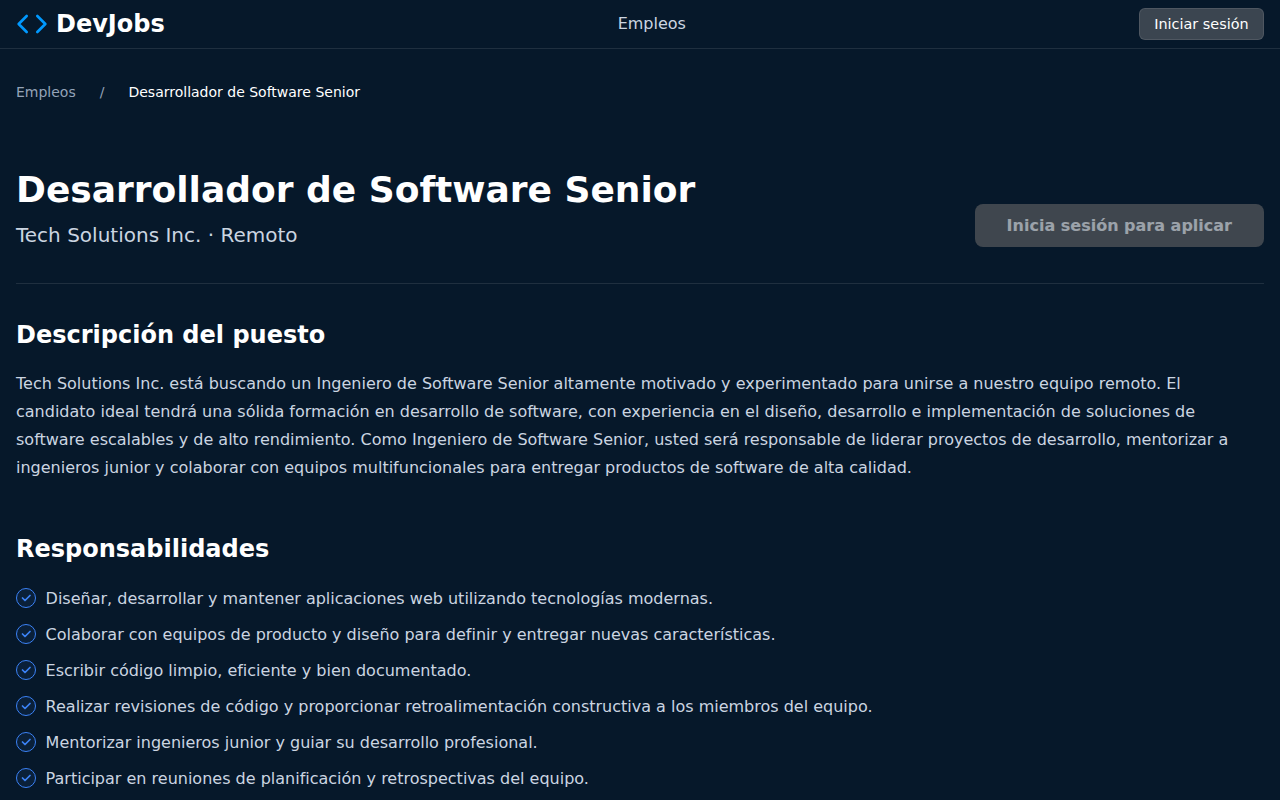
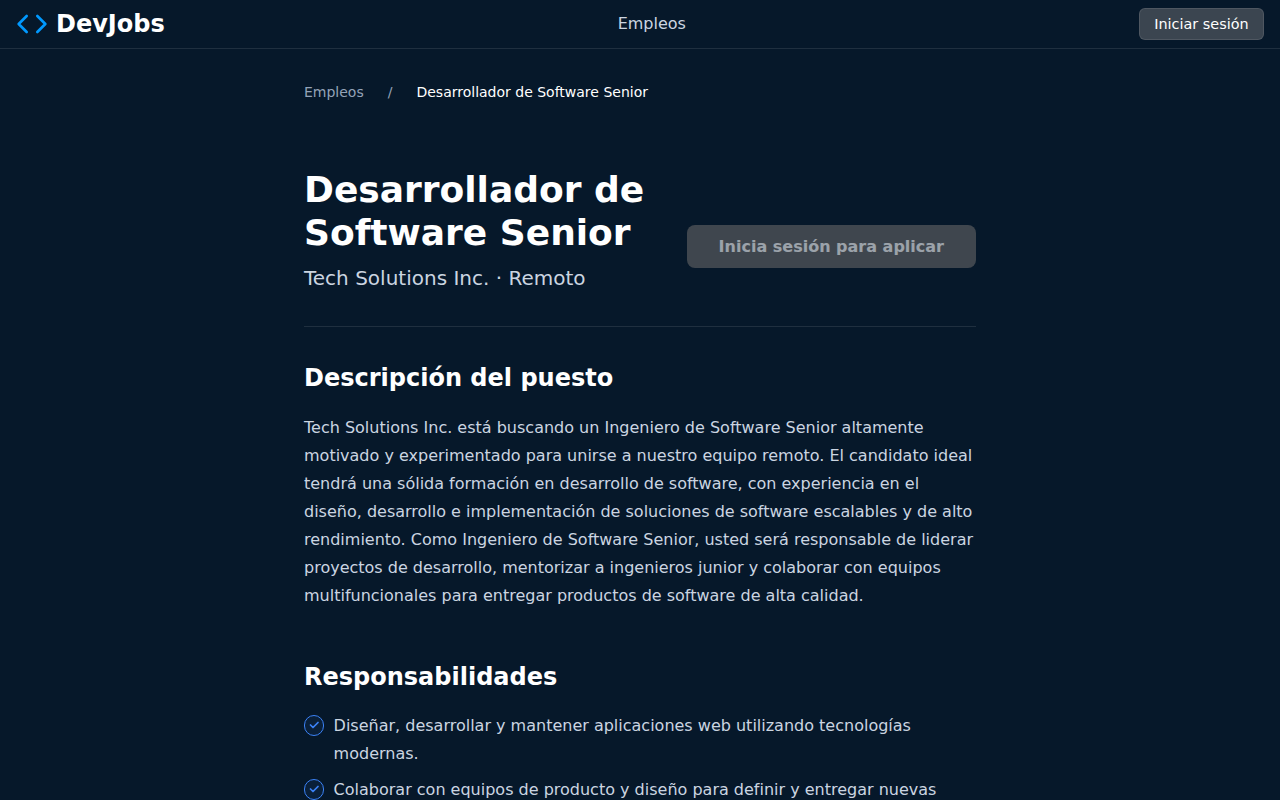
fix(web): limit job detail width and widen its margins (#13)

diff --git a/apps/web/src/pages/Detail.module.css b/apps/web/src/pages/Detail.module.css
@@ -1,13 +1,20 @@
+/*
+ * Columna centrada de unos 42rem de texto (≈ 80 caracteres por línea), con
+ * márgenes que crecen con la pantalla. El max-width incluye el padding.
+ */
 .page {
   width: 100%;
-  max-width: 1280px;
+  max-width: calc(42rem + 2 * 2rem);
   margin: 0 auto;
-  padding: 0 1rem;
+  padding-inline: 1.25rem;
+
+  @media (min-width: 640px) {
+    padding-inline: 2rem;
+  }
 }
 
 .container {
   padding-block: 2rem;
-  max-width: 64rem;
 }
 
 .loading,

diff --git a/README.md b/README.md
@@ -1,16 +1,18 @@
 # DevJobs
 
+[![CI](https://github.com/CheT018/devjobs/actions/workflows/ci.yml/badge.svg)](https://github.com/CheT018/devjobs/actions/workflows/ci.yml)
+
 Portal de empleo para desarrolladores. Permite buscar ofertas por texto, filtrarlas por tecnología, ubicación y nivel de experiencia, y consultar el detalle de cada una.
 
 Es una aplicación full stack en un monorepo: una web en React y una API REST propia con base de datos SQLite.
 
-**[Ver la demo](https://devjobs-lilac.vercel.app)** · [![CI](https://github.com/CheT018/devjobs/actions/workflows/ci.yml/badge.svg)](https://github.com/CheT018/devjobs/actions/workflows/ci.yml)
+**Demo:** [devjobs-lilac.vercel.app](https://devjobs-lilac.vercel.app)
 
 ![Portada de DevJobs](.github/screenshots/home.png)
 
 <p>
-  <img src=".github/screenshots/detail.png" alt="Detalle de una oferta en escritorio" width="68%">
-  <img src=".github/screenshots/mobile.png" alt="Búsqueda en un móvil, con una oferta marcada como favorita" width="24%">
+  <img src=".github/screenshots/detail.png" alt="Detalle de una oferta en escritorio" width="71%">
+  <img src=".github/screenshots/mobile.png" alt="Búsqueda en un móvil, con una oferta marcada como favorita" width="20.5%">
 </p>
 
 ## Origen del proyecto
